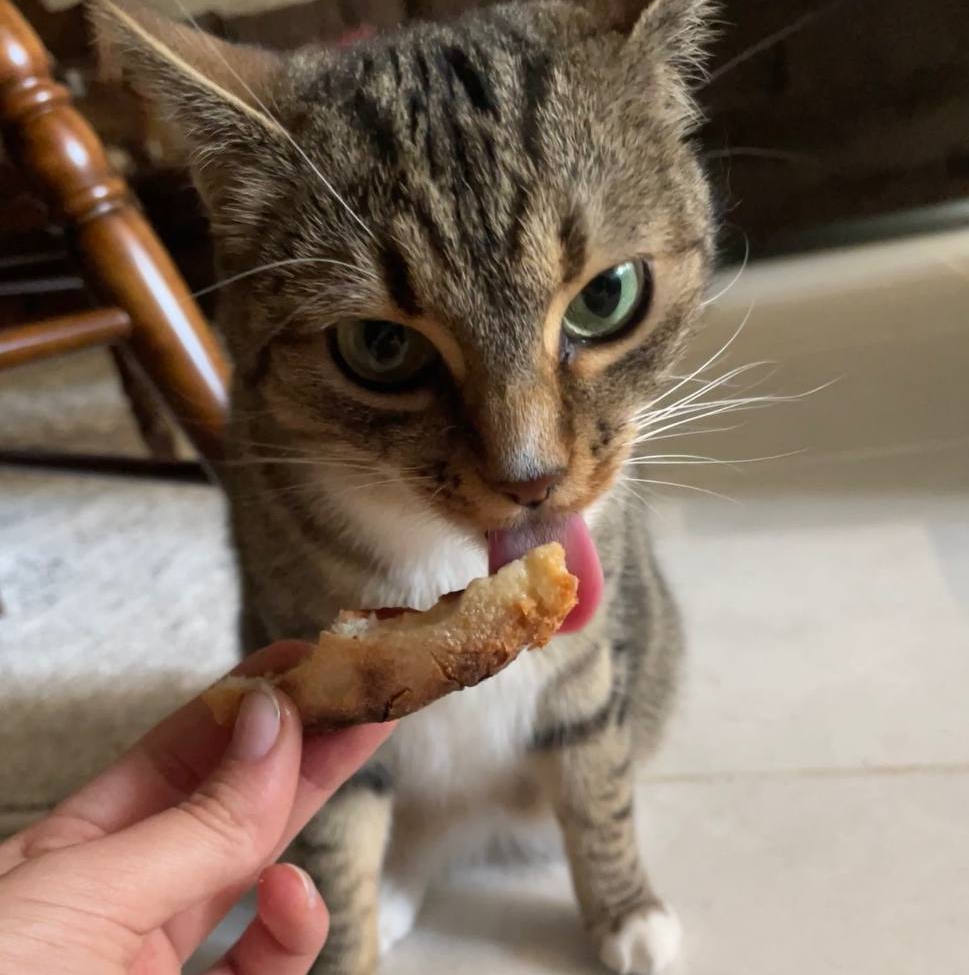
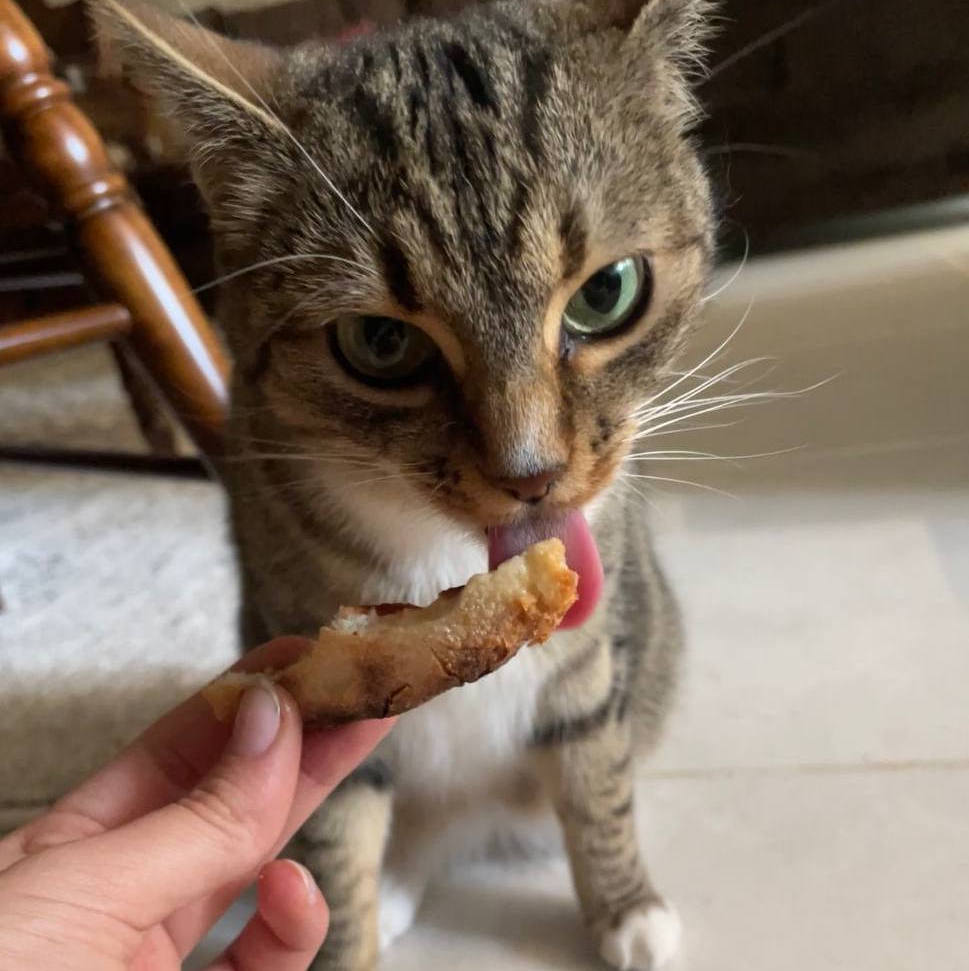
Finish hero section

diff --git a/style.css b/style.css
@@ -8,11 +8,17 @@ body{
     display:flex;
     flex-direction: column;
     background-color: white;
-    padding:0 100px;
+}
+.main,
+.header{
+    padding:0 200px;
+    max-width:100%;
 }
 .main{
     display:flex;
-    justify-content: space-around;
+    justify-content: space-between;
+    align-items: center;
+    height:500px;
 }
 .image_hero,
 .text{
@@ -31,9 +37,12 @@ footer{
     display:flex;
     justify-content: space-between;
     align-items: center;
-    
+    height:60px;
 }
-
+.header h1{
+    color:#F9FAF8;
+    font-size:24px;
+}
 .elements{
     display:flex;
 }
@@ -51,23 +60,36 @@ footer{
 .notification,
 .btn{
     background-color: #3882F6;
+    color:white;
+    font-weight:700;
+    
+    border-radius: 5px;
+    border-style: none;
+}
+.notification .btn{
+    border-color: white;
+    border: solid 2px;
+}
+.btn{
+    padding:7px 30px;
+}
+.links{
+    display:flex;
+    justify-content: space-between;
+    gap:20px;
 }
 
-.header h1{
-    color:#F9FAF8;
-    font-size:24px;
-}
 .text p,
 .links a{
    font-size:18px;
    color:#e5e7eb;
 }
-.links{
-    display:flex;
-    justify-content: space-evenly;
-}
+
 .text h1{
     font-size:48px;
     font-weight:900;
     color:#F9FAF8;
+}
+.text p{
+    padding:10px 0 15px 0;
 }

diff --git a/index.html b/index.html
@@ -6,20 +6,22 @@
         <link rel = "stylesheet" href="style.css">
     </head>
     <body>
+    
         <div class="hero">
             <div class="header">
-                <h1>Header Logo</h1>
+                <h1>Tigri Everyday</h1>
                 <div class="links">
-                    <a>header link one</a>
-                    <a>header link two</a>
-                    <a>header link three</a>
+                    <a>About Tigri</a>
+                    <a>Donate to Tigri's shrine</a>
+                    <a>Contact Tigri</a>
                 </div>
             </div>
             <div class="main">
                 <div class="text">
-                    <h1>This website is awesome</h1>
-                    <p>Welcome to Freddy Fazbear's Pizza. A magical place for kids and grown-ups alike, where fantasy and fun come to life.
-                    Fazbear Entertainment is not responsible for damage to property or person.</p>
+                    <h1>Do you know this demure kitty?</h1>
+                    <p>Of course you don't...Her name is Tigri! She's my best friend's cat.
+                        Tigri may be shy,but she's very smart,funny and nonchalant.
+                    </p>
                     <button class="btn">Sign up</button>
                 </div>
                 <div class="image_hero">
@@ -33,23 +35,25 @@
             <div class="elements">
                 <div class="element">
                     <div class="square">
-
+                        <img src="./img/tigri_snack.jpg">
                     </div>
                     <p>This is some subtext under an image</p>
                 </div>
                 <div class="element">
                     <div class="square">
-                        
+                        <img src="./img/tigri_silly.jpg">
                     </div>
-                    <p>This is some subtext under an image</p>
-                </div>
-                <div class="element">
-                    <div class="square"></div>
                     <p>This is some subtext under an image</p>
                 </div>
                 <div class="element">
                     <div class="square">
                         <img src="./img/tigri_table.jpg">
+                    </div>
+                    <p>This is some subtext under an image</p>
+                </div>
+                <div class="element">
+                    <div class="square">
+                        <img src="./img/tigri_tongue.jpg">
                     </div>
                     <p>This is some subtext under an image</p>
                 </div>